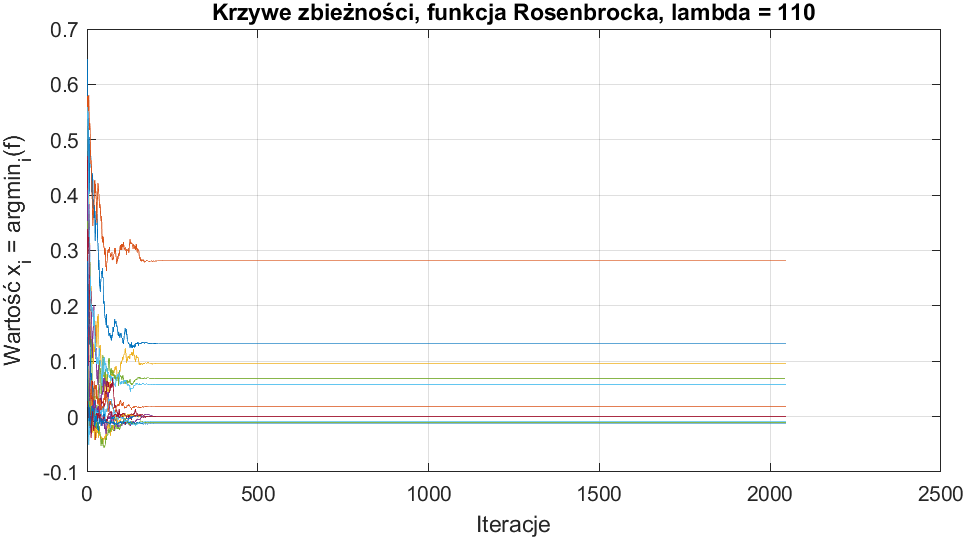
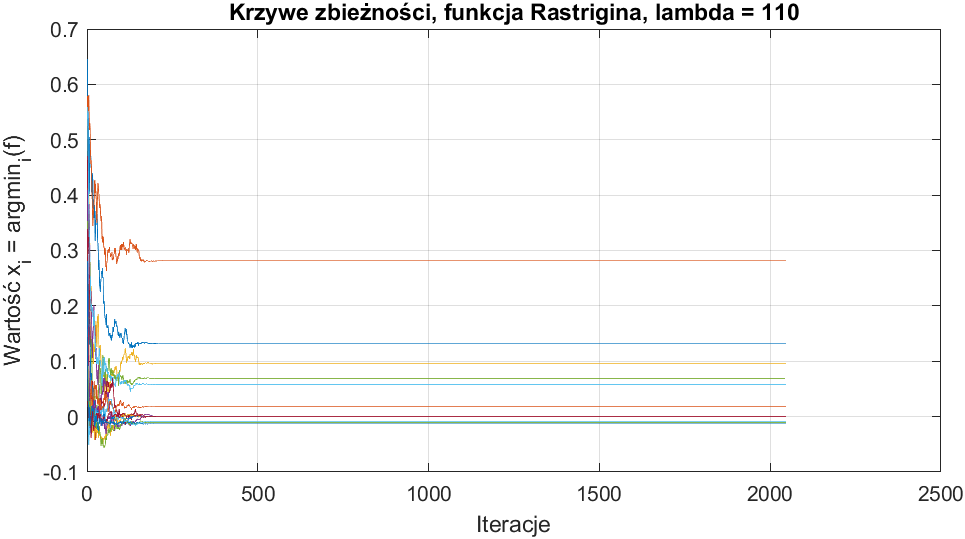
Minor improvements

Changed region(s): [[0.2176, 0.0, 0.8394, 0.0594]]

diff --git a/test_lambda.m b/test_lambda.m
@@ -1,7 +1,7 @@
 dimensions = 15;
 
 for lambda = 10:50:410
-  [x, fitnessmin, out] = repeat_cmaes(@simple_functions.frosenbrock, dimensions, 15, false, 0, lambda);
+  [x, fitnessmin, out] = repeat_cmaes(@simple_functions.frastrigin10, dimensions, 15, false, 0, lambda);
 
   % Convergence curve
   disp(['Podstawowy CMA-ES, lambda = ' num2str(lambda)  ', fmin = ' num2str(fitnessmin) ', argmin = ' mat2str(x')]);
@@ -9,7 +9,7 @@ for lambda = 10:50:410
   subplot(3,3,floor(lambda/50) + 1, 'align')
   hold off;
   plot(out.datx);
-  title("Krzywe zbieżności, funkcja Rosenbrocka, lambda = " + lambda);
+  title("Krzywe zbieżności, funkcja Rastrigina, lambda = " + lambda);
   grid on; xlabel('Iteracje'); ylabel('Wartość x_i = argmin_i(f)');
 
   % Empirical cumulative distribution function plot
@@ -20,6 +20,6 @@ for lambda = 10:50:410
     ecdf(out.arx(n, :));
   end
   hold off;
-  title("Dystrybuanta empiryczna, funkcja Rosenbrocka, lambda = " + lambda);
+  title("Dystrybuanta empiryczna, funkcja Rastrigina, lambda = " + lambda);
   grid on; ylim([0 1.1]); xlabel('x_i'); ylabel('Wartość');
 end

diff --git a/repeat_cmaes.m b/repeat_cmaes.m
@@ -1,7 +1,13 @@
 function [xmin, fitnessmin, out]=repeat_cmaes(fitness_function, dimensions, repetitions, use_best, extinction_type, lambda, extinction_trigger, p_extinction)
-  % fitness_function - objective/fitness function 
+  % fitness_function - objective/fitness function
   % dimensions - number of objective variables/problem dimension
   % extinction type - (0 - none, 1 - directed, 2 - random)
+  if nargin < 8
+    p_extinction = 0.5;
+  end
+  if nargin < 7
+    extinction_trigger = 20;
+  end
   if nargin < 6
     lambda = 310;
   end
@@ -11,7 +17,7 @@ function [xmin, fitnessmin, out]=repeat_cmaes(fitness_function, dimensions, repe
 
   rng(0) % Change 0 to another non-negative integer for different set of results or to 'shuffle' for random results each time
   seeds = randi(2^31, repetitions, 1);
-  
+
   xmin = zeros(dimensions, 1);
   fitnessmin = 2^31;
   out.datx = [];
